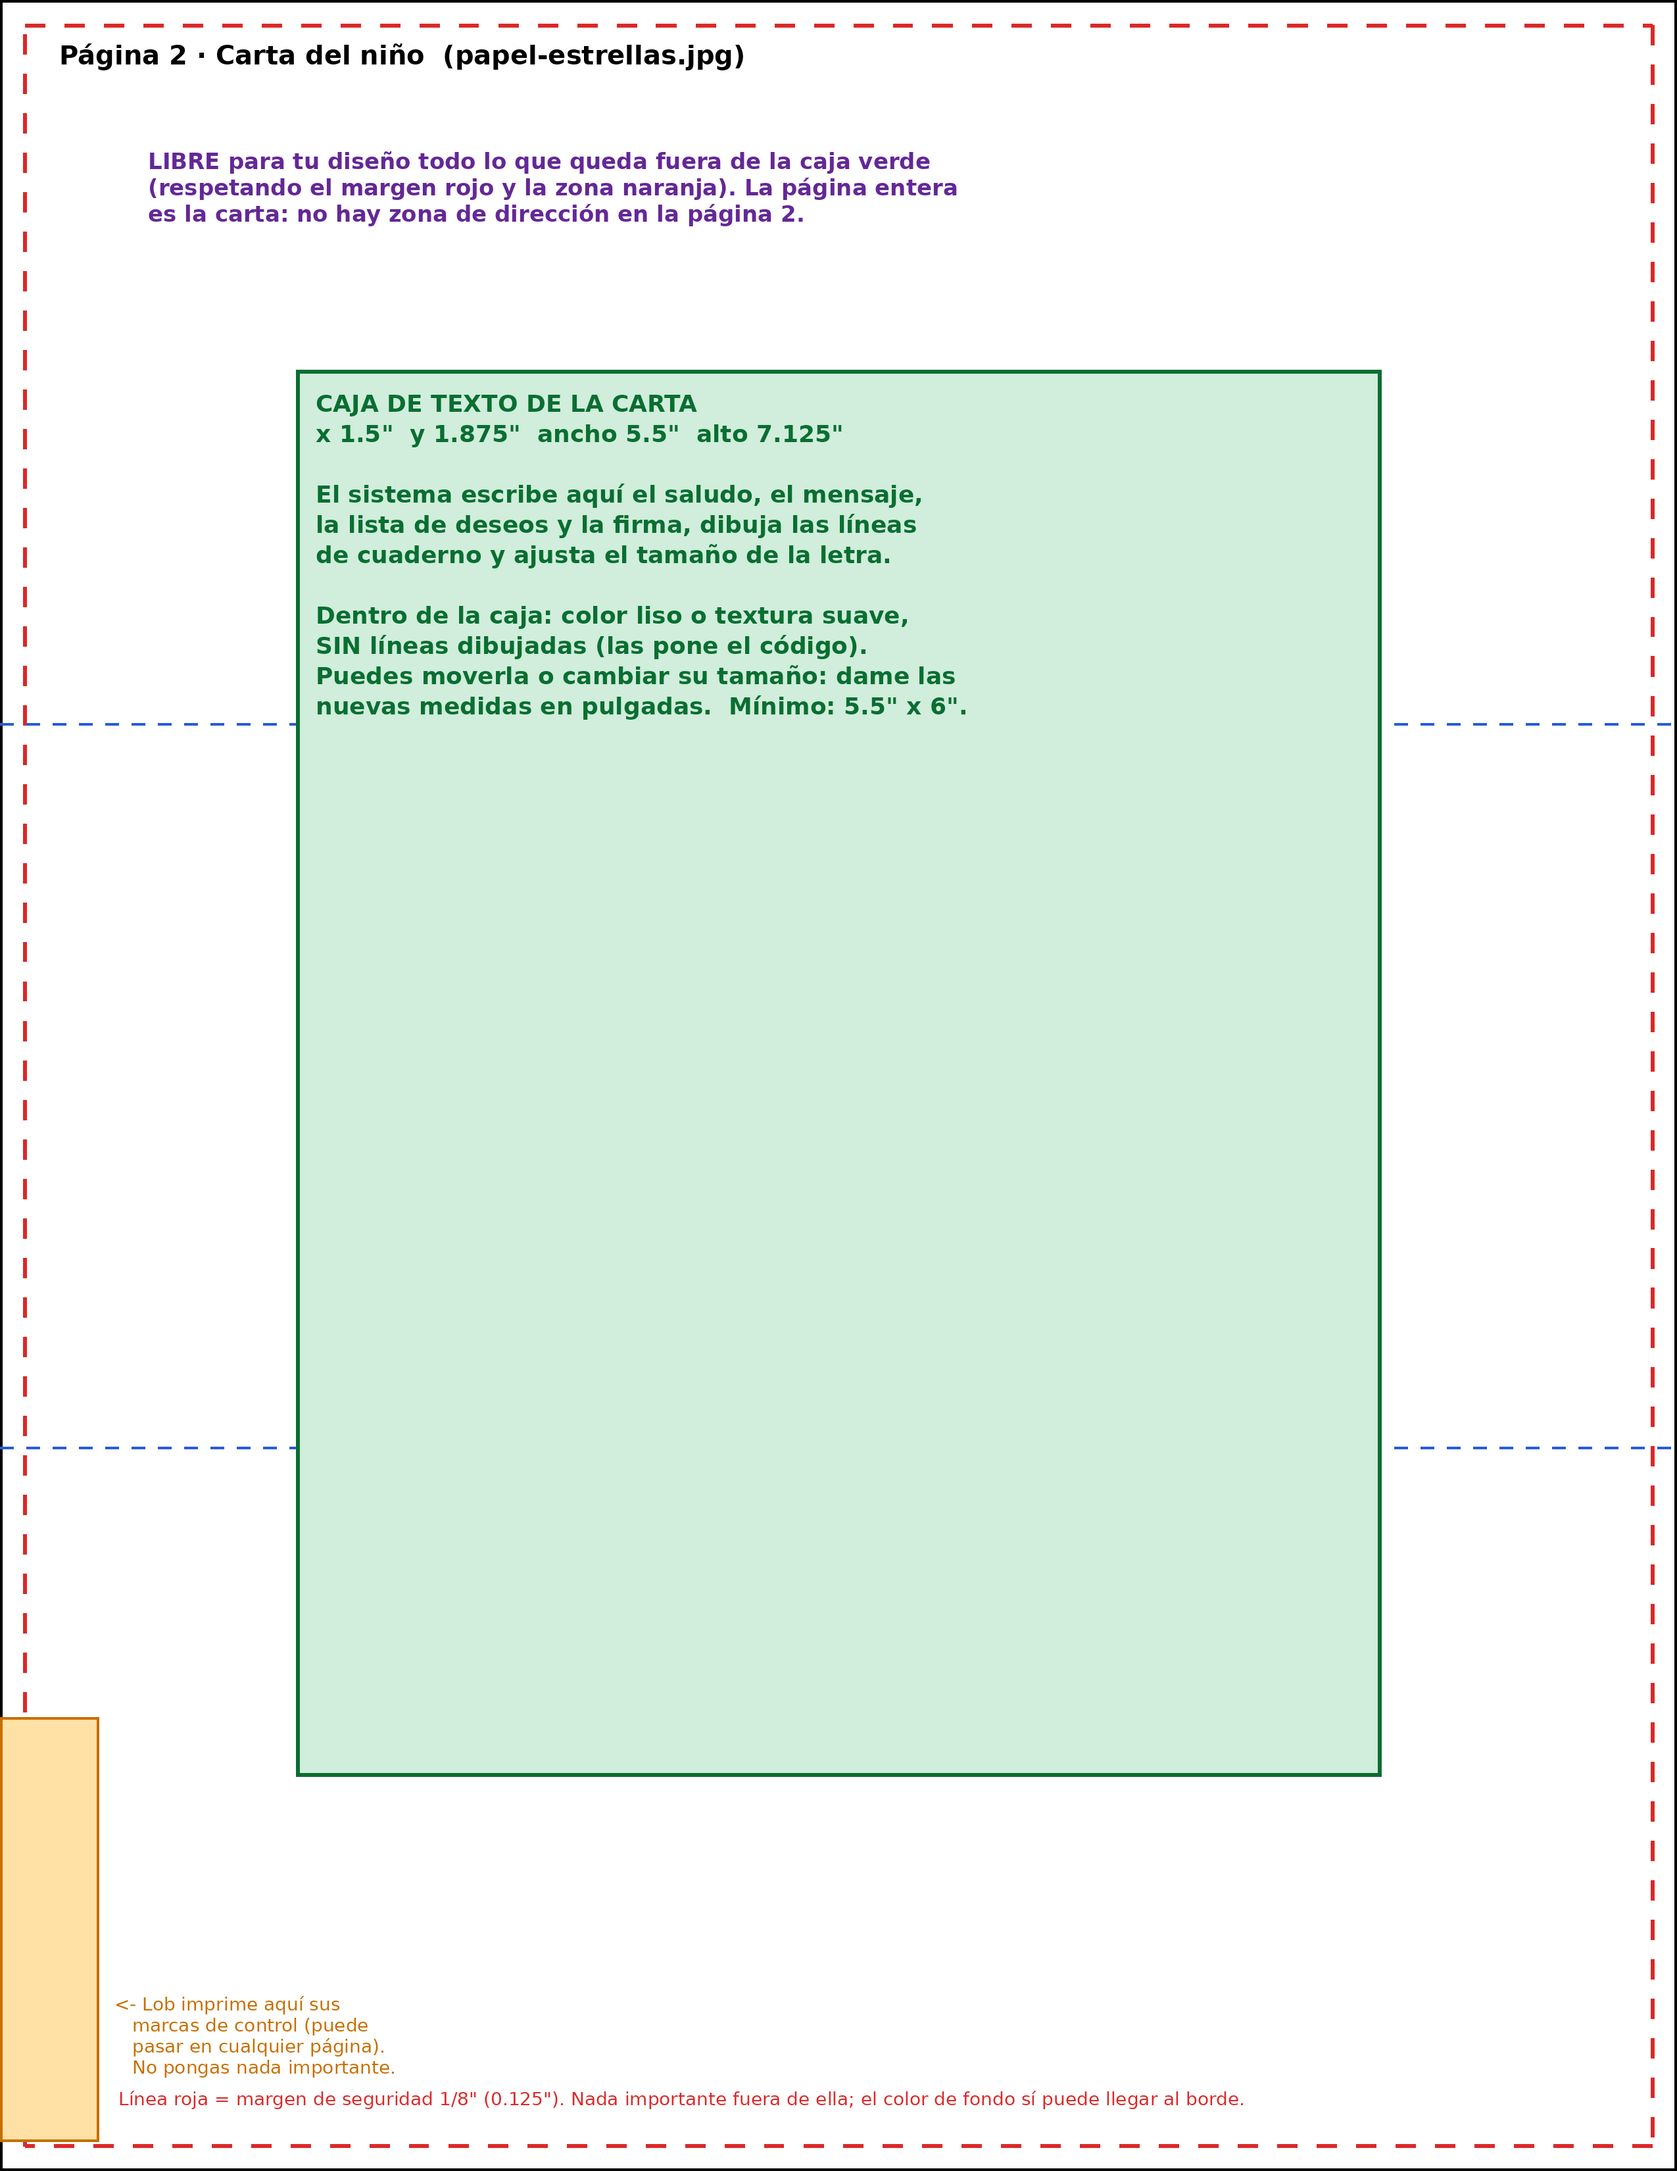
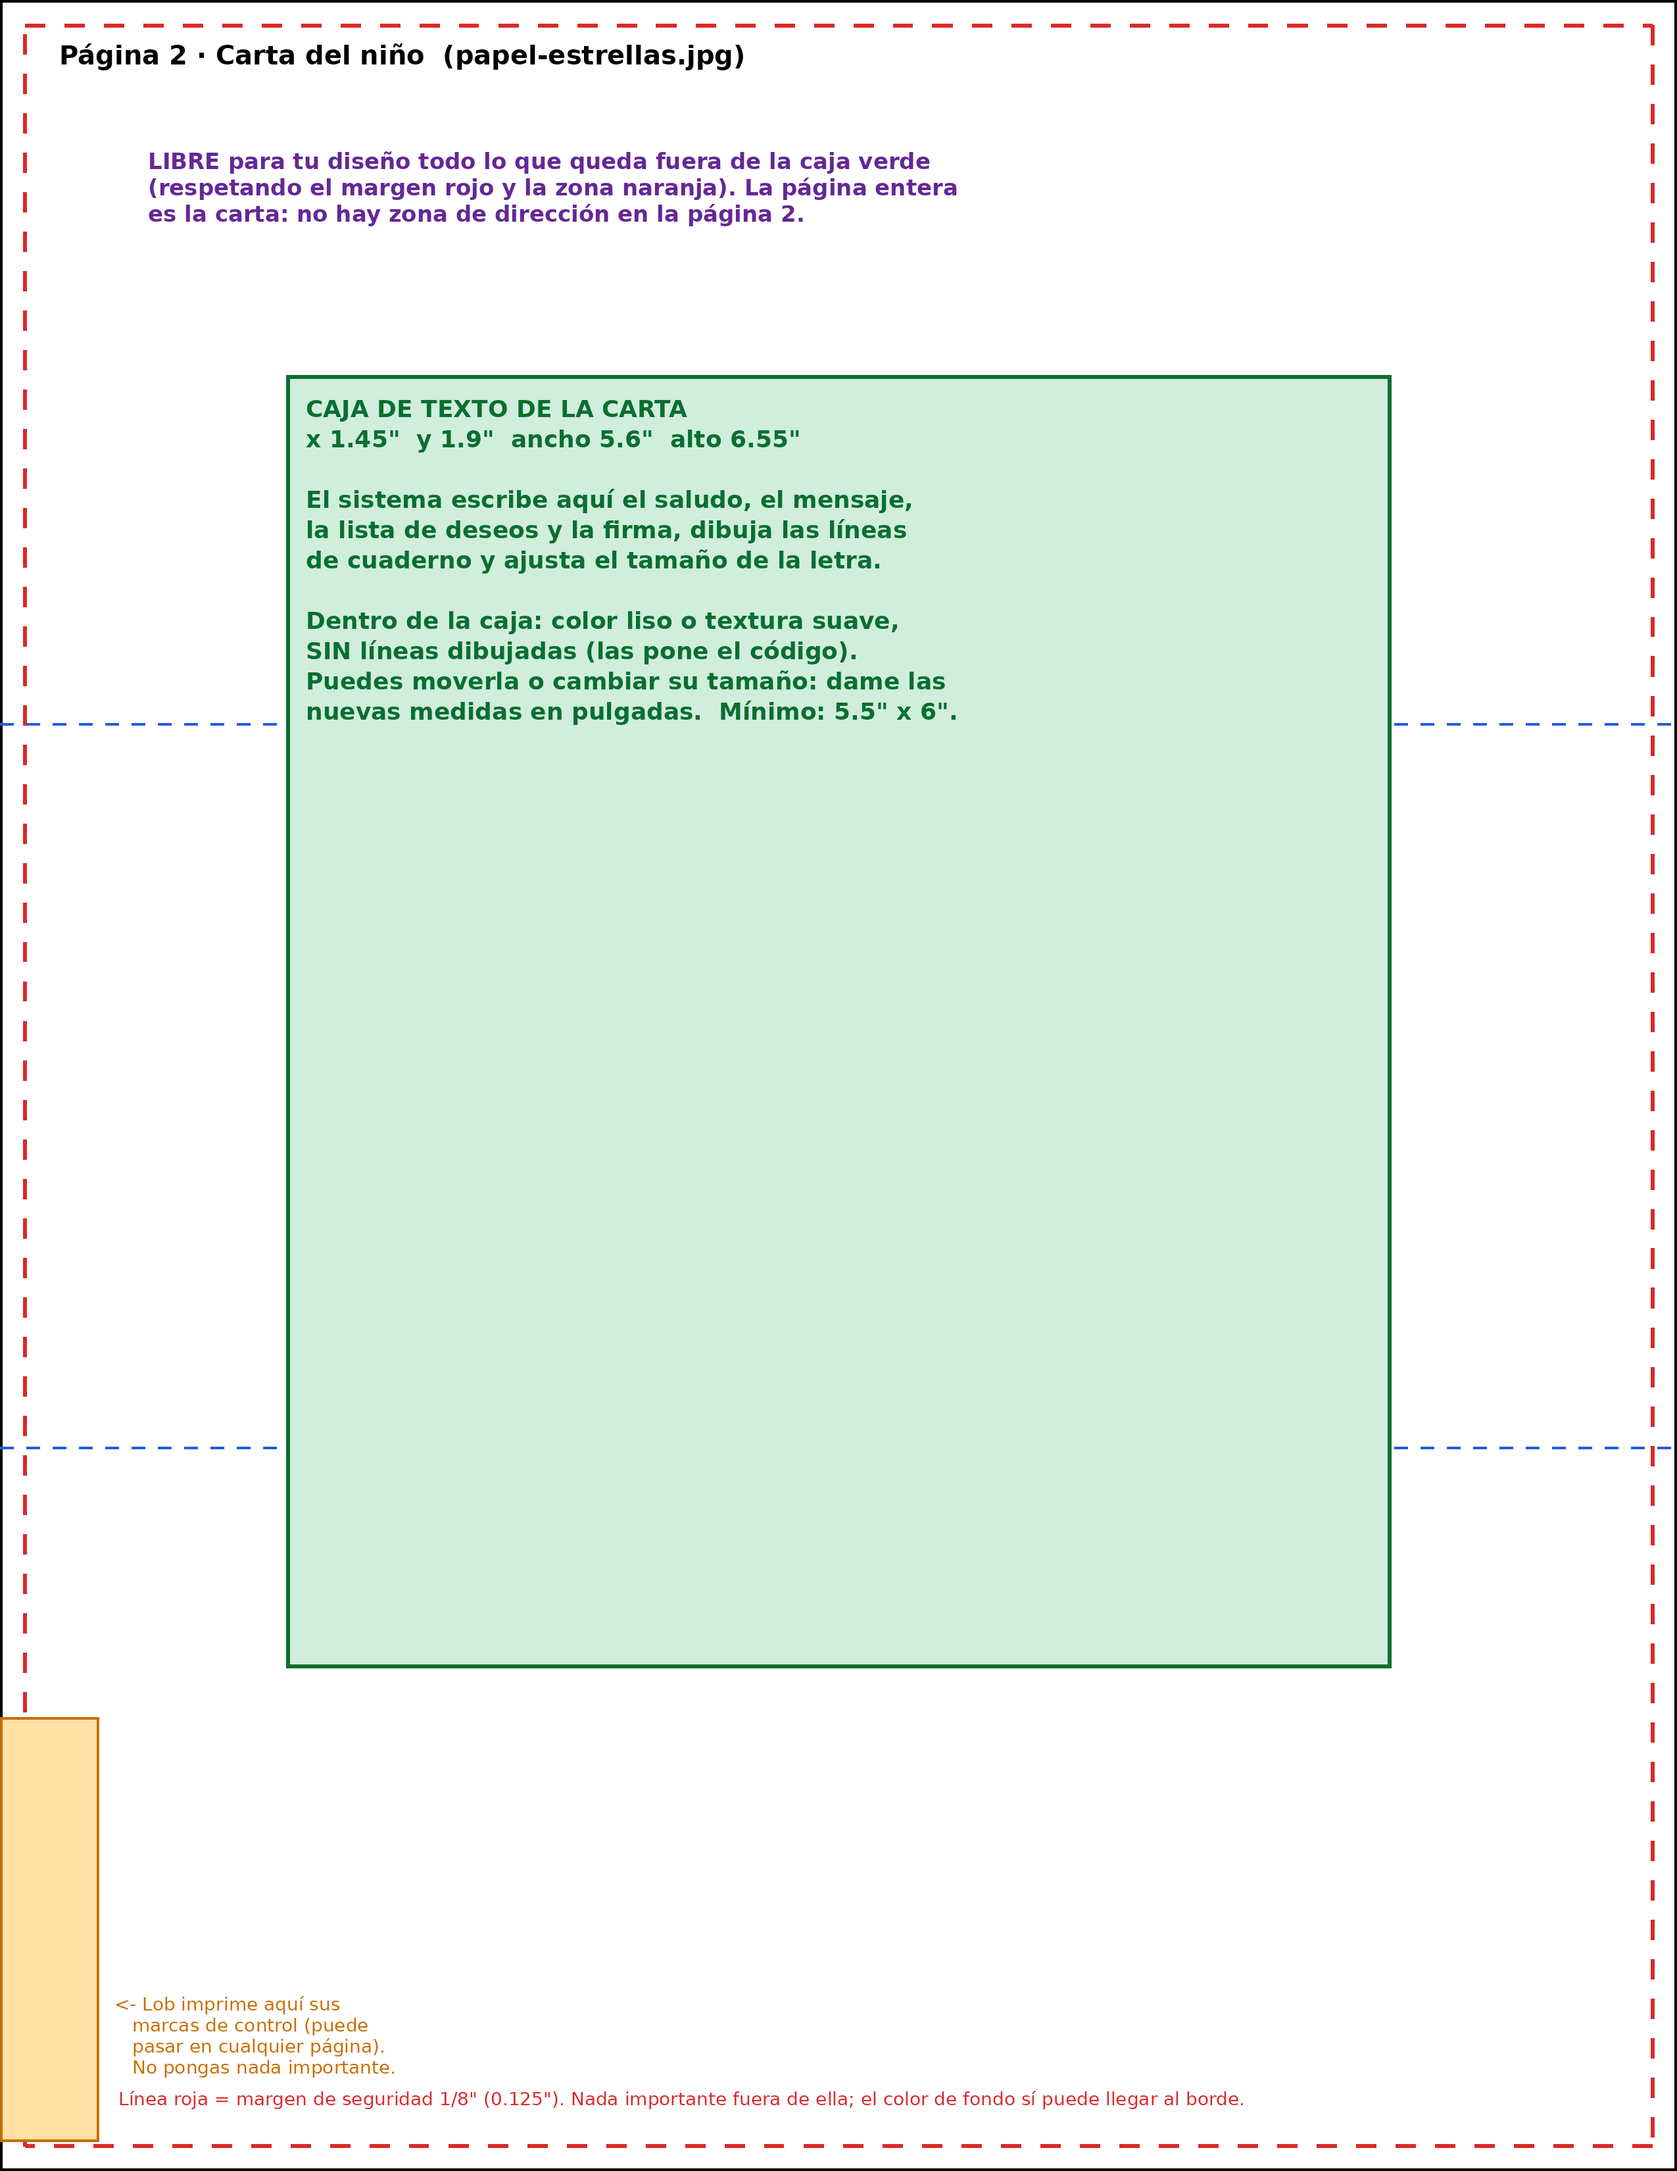
Fondos nuevos diseñados por Angel y cajas de texto ajustadas a cada uno
Los 6 fondos (Santa y 5 papeles) reemplazan los generados del prototipo. Se
miden las cajas de texto para no tapar adornos, la fecha va centrada bajo el
logo y las guías de la plantilla se regeneran con las medidas nuevas.
tools/build-fondos.js queda marcado como obsoleto (sobrescribiría layout.json).

Claude-Session: https://claude.ai/code/session_0155Dy2To6Xc8tLxhuGqbnD1

Changed region(s): [[0.1549, 0.1561, 0.8365, 0.8427]]

diff --git a/tools/build-fondos.js b/tools/build-fondos.js
@@ -1,4 +1,6 @@
 // tools/build-fondos.js
+// ⚠ OBSOLETO desde el 9 nov 2026: los fondos ahora son diseños propios (papeles/fondos/*.jpg).
+//    Correr esto sobrescribiría papeles/layout.json; no lo uses salvo para volver al prototipo.
 // Genera las páginas HTML (sin texto) de los fondos actuales y papeles/layout.json con la
 // caja de texto de cada diseño. Luego tools/render-fondos.py las convierte en imágenes
 // de 2550×3300 px (8.5×11" a 300 ppp). Solo hace falta para regenerar los fondos a partir
